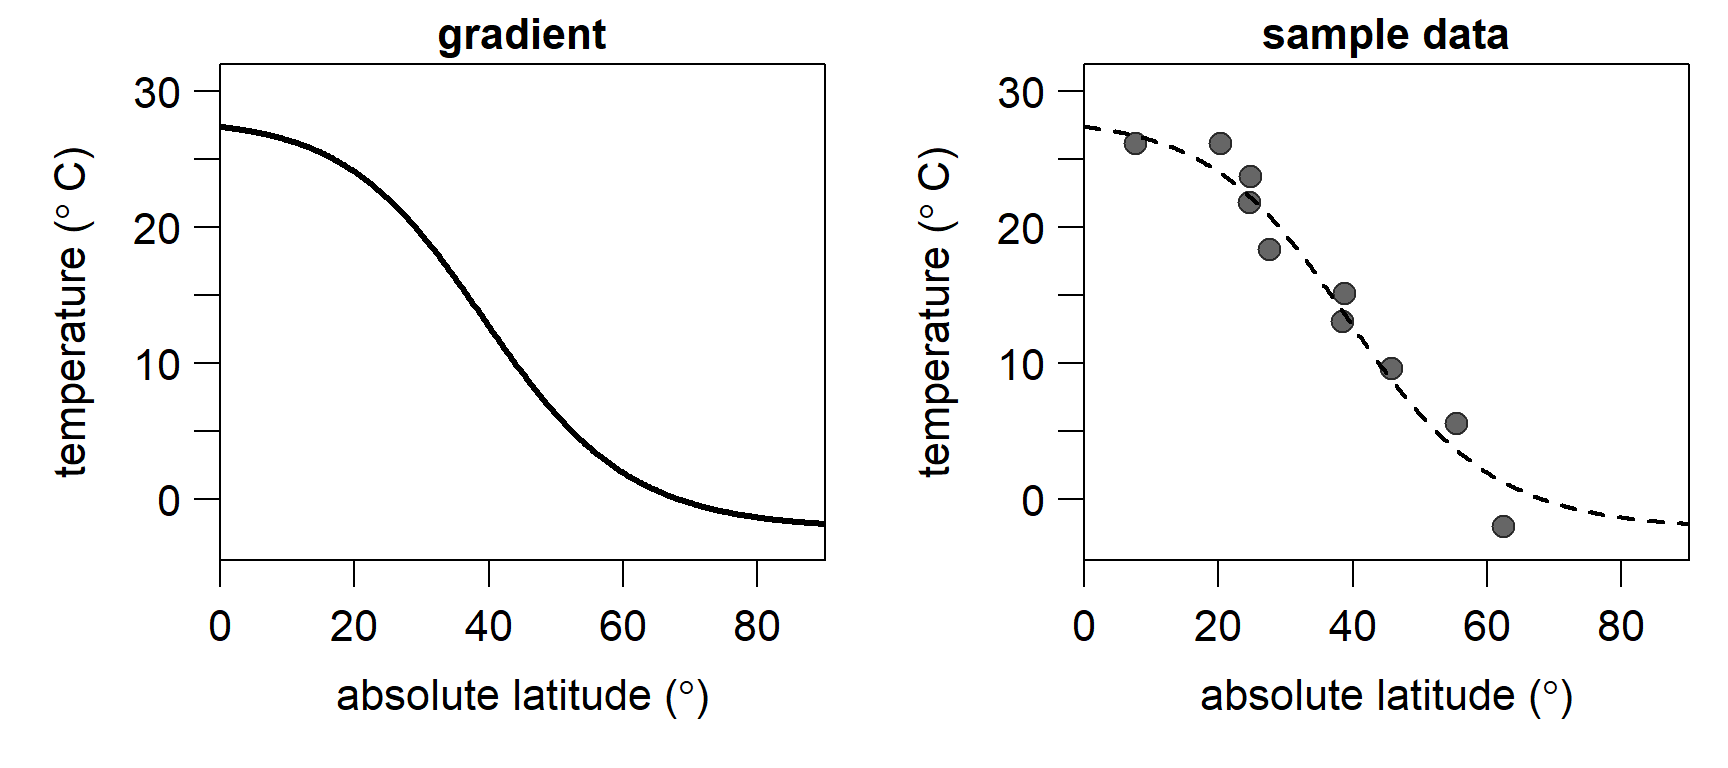
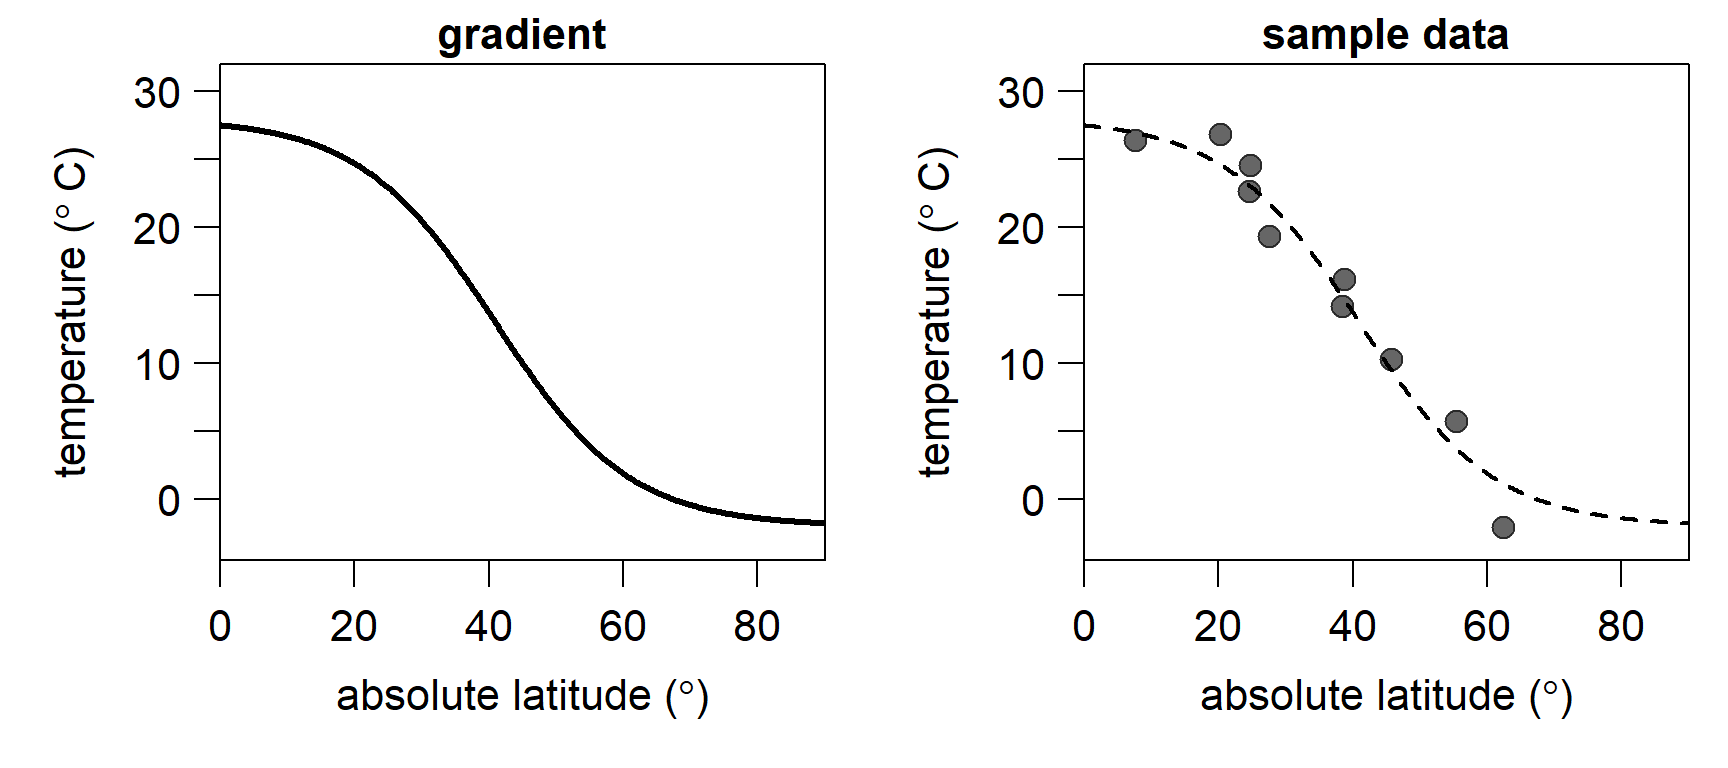
update

diff --git a/content/post/2022-02-12-metropolis-hastings-within-gibbs-sampling-for-latitudinal-temperature-gradients/index.en.html b/content/post/2022-02-12-metropolis-hastings-within-gibbs-sampling-for-latitudinal-temperature-gradients/index.en.html
@@ -1,8 +1,8 @@
 ---
-title: "A Metropolis algorithm in R - Part 1 - Latitudinal temperature gradients"
+title: "Metropolis algorithm in R - Latitudinal temperature gradients"
 author: "Kilian Eichenseer"
 date: '2022-02-12'
-slug: a-metropolis-algorithm-in-R-part-1-latitudinal-temperature-gradients
+slug: metropolis-algorithm-in-R-latitudinal-temperature-gradients
 categories: []
 tags: []
 subtitle: ''
@@ -60,44 +60,41 @@ pre {
 <p>Latitudinal temperature gradients from Earth history are difficult to reconstruct due to the <a href="https://www.lewisajones.com/post/uneven-spatial-sampling-and-reconstructing-global-palaeotemperatures/">sparse and geographically variable sampling of proxy data in most geological intervals</a>. To reconstruct plausible temperature gradients from a fragmentary proxy record, classical solutions like LOESS or standard generalised additive models are not optimal, as earth scientists have additional information on past temperature gradients that those models do not incorporate. Instead, I propose the use of a generalised logistic function (a modified <a href="https://www.jstor.org/stable/23686557?seq=1#metadata_info_tab_contents">Richard’s curve</a>) that can readily incorporate information in addition to the proxy data. For example, we can instruct the model to force temperature to continuously decrease from the tropics toward the poles.</p>
 <p>To keep with the familiar notation in regression models, we set denote latitude as <span class="math inline">\(x\)</span> and temperature as <span class="math inline">\(y\)</span>. Temperature is modelled as a function of latitude as:</p>
 <p><span class="math inline">\(\begin{aligned} \begin{equation} \begin{array}{l} y_i \sim N(\mu_i, \sigma), ~~\\ \mu_i = A~+max(K-A,0)/(\nu\ e^{Q(x_i-M)^{\frac{1}{\nu}}}), ~~~~~ i = 1,...,n. \end{array} \end{equation} \end{aligned}\)</span></p>
-<p><span class="math inline">\(A\)</span> is the lower asymptote, <span class="math inline">\(K\)</span> is the upper asymptote, <span class="math inline">\(M\)</span> is the inflection point, i.e. the steepest point of the curve, <span class="math inline">\(Q\)</span> controls the steepness of the curve, and <span class="math inline">\(\nu\)</span> (the greek letter “nu”) influences whether the slope of the curve is changing faster towards the lower or the upper asymptote. The difference <span class="math inline">\(K-A\)</span> is constrained to be <span class="math inline">\(\ge 0\)</span> to preclude inverse temperature gradients.</p>
+<p><span class="math inline">\(A\)</span> is the lower asymptote, <span class="math inline">\(K\)</span> is the upper asymptote, <span class="math inline">\(M\)</span> is the inflection point, i.e. the steepest point of the curve, and <span class="math inline">\(Q\)</span> controls the steepness of the curve. The difference <span class="math inline">\(K-A\)</span> is constrained to be <span class="math inline">\(\ge 0\)</span> to preclude inverse temperature gradients.</p>
 <p>In R code, we turn this into a function named <span class="math inline">\(gradient\)</span>:</p>
 <pre class="r"><code>gradient &lt;- function(x, coeff, sdy) { # sigma is labelled &quot;sdy&quot;
   A = coeff[1]
   K = coeff[2]
   M = coeff[3]
   Q = coeff[4]
-  nu = coeff[5]
-  return(A + max(c(K-A,0))/((1+(nu*exp(Q*(x-M))))^(1/nu)) + rnorm(length(x),0,sdy))
+  return(A + max(c(K-A,0))/((1+(exp(Q*(x-M))))) + rnorm(length(x),0,sdy))
 }</code></pre>
-<p>As an example, let’s look at the modern, average latitudinal sea surface temperature gradient. We approximate it by setting <span class="math inline">\(A = -2.2\)</span>, <span class="math inline">\(K = 28\)</span>, <span class="math inline">\(M = 39\)</span>, <span class="math inline">\(Q = 0.10\)</span>, and <span class="math inline">\(\nu = 1.2\)</span>. The residual standard deviation <span class="math inline">\(\sigma\)</span> is set to <span class="math inline">\(0\)</span>, resulting in a smooth curve without noise (lefthand plot). Note that we are using absolute latitudes, assuming a common latitudinal temperature gradient in both hemispheres.
+<p>As an example, let’s look at the modern, average latitudinal sea surface temperature gradient. We approximate it by setting <span class="math inline">\(A = -2.0\)</span>, <span class="math inline">\(K = 28\)</span>, <span class="math inline">\(M = 41\)</span>, and <span class="math inline">\(Q = 0.10\)</span>. The residual standard deviation <span class="math inline">\(\sigma\)</span> is set to <span class="math inline">\(0\)</span>, resulting in a smooth curve without noise (lefthand plot). Note that we are using absolute latitudes, assuming a common latitudinal temperature gradient in both hemispheres.
 We also sample <span class="math inline">\(10\)</span> points from this gradient, introducing some noise by setting <span class="math inline">\(\sigma = 2\)</span> (righthand plot). In the following, we will use these <span class="math inline">\(10\)</span> points to estimate a latitudinal gradient, using the gradient model specified above.</p>
 <pre class="r"><code>set.seed(10)
 sample_lat &lt;- runif(10,0,90)
 sample_data &lt;- data.frame(
   x = sample_lat, 
-  y = gradient(x = sample_lat, coeff = c(-2.2, 28, 39, 0.1, 1.2), sd = 2))</code></pre>
+  y = gradient(x = sample_lat, coeff = c(-2.0, 28, 41, 0.1), sd = 2))</code></pre>
 <p><img src="{{< blogdown/postref >}}index.en_files/figure-html/unnamed-chunk-3-1.png" width="864" /></p>
 <p>To obtain posterior probabilities for the parameters of the gradient model, we use a Metropolis algorithm. The Metropolis algorithm builds a Markov chain which resembles the posterior distribution. This works by proposing random new values for the parameters, and calculating the posterior probability with the new parameter values. If the joint posterior probability obtained with the new values is higher than that of the current values, the new values will be recorded and added to the Markov chain. Otherwise, the new value will be accepted with a probabilty equal to the ratio of the two joint posterior probabilities.</p>
 <p>Before writing the main Markov chain Monte Carlo (MCMC) function, we pre-define a couple of supplementary functions that we use in every iteration of the Metropolis algorithm.</p>
 <p>We start with the log-likelihood function, which translates to the joint probability of the data, given a specific set of model parameters:</p>
-<pre class="r"><code>loglik &lt;- function(x, y,  coeff, sdy) { 
+<pre class="r"><code>loglik &lt;- function(x, y,  coeff, sdy) {
   A = coeff[1]
   K = coeff[2]
   M = coeff[3]
   Q = coeff[4]
-  nu = coeff[5]
-  pred = A + max(c(K-A,0))/((1+(nu*exp(Q*(x-M))))^(1/nu))
+  pred = A + max(c(K-A,0))/((1+(exp(Q*(x-M)))))
   return(sum(dnorm(y, mean = pred, sd = sdy, log = TRUE)))
 }</code></pre>
 <p>Next, we need a function to generate the log-priors, i.e. the joint prior probability of the set of model parameters. We specify the parameters of the prior distribution within the function for convenience. Uniform priors ranging from <span class="math inline">\(-4\)</span> to <span class="math inline">\(40\)</span> are put on <span class="math inline">\(A\)</span> and <span class="math inline">\(K\)</span>, signifying that the temperature gradient cannot exceed this range. A normal prior with a mean of <span class="math inline">\(45\)</span> and a standard deviation of <span class="math inline">\(10\)</span> is placed on <span class="math inline">\(M\)</span>, implying that we expect the steepest temperature gradient in the mid-latitudes, but the data will quickly overwhelm the prior due to the large standard deviation. We constrain <span class="math inline">\(Q\)</span> and <span class="math inline">\(\nu\)</span> to be <span class="math inline">\(&gt;0\)</span> by placing Gamma priors on them:</p>
 <pre class="r"><code>logprior &lt;- function(coeff) {
-    return(sum(c(
+  return(sum(c(
     dunif(coeff[1], -4, 40, log = TRUE),
     dunif(coeff[2], -4, 40, log = TRUE),
     dnorm(coeff[3], 45, 10, log = TRUE),
-    dgamma(coeff[4], 0.2, 0.2, log = TRUE),
-    dgamma(coeff[5], 1, 1, log = TRUE))))
+    dlnorm(coeff[4], -2, 1, log = TRUE))))
 }</code></pre>
 <p>The posterior is proportional to the likelihood <span class="math inline">\(\times\)</span> prior. On the log scale, we can simply add them:</p>
 <pre class="r"><code>logposterior &lt;- function(x, y, coeff, sdy){
@@ -105,12 +102,12 @@ sample_data &lt;- data.frame(
 }</code></pre>
 <p>Finally, we define a function that proposes new values for the Metropolis-Hastings step. The magnitude of the proposal standard deviations (<span class="math inline">\(\sigma_{proposal}\)</span>) is quite important, as low values will lead to the chain exploring the parameter space very slowly, and high values result in a low acceptance rate and an insufficient exploration of the parameter space. As appropriate <span class="math inline">\(\sigma_{proposal}\)</span> are difficult to know <em>a priori</em>, adaptive steps are often used to find better values. For simplicity, we will use fixed <span class="math inline">\(\sigma_{proposal}\)</span>. Different <span class="math inline">\(\sigma_{proposal}\)</span> can and usually should be used for different parameters.</p>
 <pre class="r"><code>MH_propose &lt;- function(coeff, proposal_sd){
-  return(rnorm(5,mean = coeff, sd= c(.5,.5,.5,0.01,0.07)))
+  return(rnorm(4,mean = coeff, sd= c(.5,.5,.5,0.01)))
 }</code></pre>
 <p>With all the prerequisites in place, we can build the MCMC function. The model will update <span class="math inline">\(\sigma\)</span> with a Gibbs step, and update the other coefficients with a Metropolis-Hastings step:</p>
 <pre class="r"><code>run_MCMC &lt;- function(x, y, coeff_inits, sdy_init, nIter){
   ### Initialisation
-  coefficients = array(dim = c(nIter,5)) # set up array to store coefficients
+  coefficients = array(dim = c(nIter,4)) # set up array to store coefficients
   coefficients[1,] = coeff_inits # initialise coefficients
   sdy = rep(NA_real_,nIter) # set up vector to store sdy
   sdy[1] = sdy_init # intialise sdy
@@ -128,7 +125,7 @@ sample_data &lt;- data.frame(
     
     ## 2. Metropolis-Hastings step to estimate the regression coefficients
     proposal = MH_propose(coefficients[i-1,]) # new proposed values
-    if(any(proposal[c(4,5)] &lt;= 0)) HR = 0 else # Q and nu need to be &gt;0
+    if(any(proposal[4] &lt;= 0)) HR = 0 else # Q needs to be &gt;0
     # Hastings ratio of the proposal
     HR = exp(logposterior(x = x, y = y, coeff = proposal, sdy = sdy[i]) -
              logposterior(x = x, y = y, coeff = coefficients[i-1,], sdy = sdy[i]))
@@ -146,17 +143,16 @@ sample_data &lt;- data.frame(
                       K = coefficients[,2],
                       M = coefficients[,3],
                       Q = coefficients[,4],
-                      nu = coefficients[,5],
                       sdy = sdy)
   return(output)
 }</code></pre>
 <p>To run the model, we need to provide starting values for the unknown parameters. We let it run for <span class="math inline">\(100,000\)</span> iterations:</p>
 <pre class="r"><code>nIter &lt;- 100000
 m &lt;- run_MCMC(x = sample_data$x, y = sample_data$y, 
-              coeff_inits = c(10,20,30,0.4,0.4), sdy_init = 5, nIter = nIter)</code></pre>
+              coeff_inits = c(0,30,30,0.2), sdy_init = 4, nIter = nIter)</code></pre>
 <p>To assess the model output, we produce trace plots and density plots of the posterior estimates of the parameters. For the trace plot, only every <span class="math inline">\(10^{th}\)</span> iteration is shown to improve readability. The black lines in the density plot denote the parameters of the original sea surface temperature gradient.
 <img src="{{< blogdown/postref >}}index.en_files/figure-html/unnamed-chunk-10-1.png" width="691.2" />
-The parameters have converged reasonably well, although there is considerable uncertainty, especially around <span class="math inline">\(\nu\)</span>.</p>
+The parameters have converged reasonably well.</p>
 <p>Below, we discard the first <span class="math inline">\(10,000\)</span> iterations as burn-in and plot <span class="math inline">\(8\)</span> gradients, using different samples from the posterior (blue lines, lefthand plot). As expected, they fit nicely to the <span class="math inline">\(10\)</span> sampled data points (grey dots). They are also quite similar to the original gradient (black, dashed line). To the right, the estimated temperature gradient using the median of the parameters from the posterior (blue line), and <span class="math inline">\(95\%\)</span> credible intervals (blue shading), are shown. Between <span class="math inline">\(10^\circ\)</span> and <span class="math inline">\(50^\circ\)</span>, where we have sufficient samples, the estimated gradient very closely resembles the original gradient. The constraints imposed by the priors ensure that the estimated sea surface temperature gradients stays in a realistic range (<span class="math inline">\(&gt;-4^\circ C\)</span>), even at latitudes <span class="math inline">\(&gt; 63^\circ\)</span> where we have no data.</p>
 <p><img src="{{< blogdown/postref >}}index.en_files/figure-html/unnamed-chunk-11-1.png" width="864" />
 In conclusion, the model seems to be doing a good job in estimating a sensible temperature gradient from sparse samples. In the second part of this series, we will implement adaption of <span class="math inline">\(\sigma_{proposal}\)</span>, which means we won’t have to guess good values for <span class="math inline">\(\sigma_{proposal}\)</span>. This should speed up convergence, meaning we will need less iterations of the MCMC algorithm to obtain reliable posterior estimates.</p>
